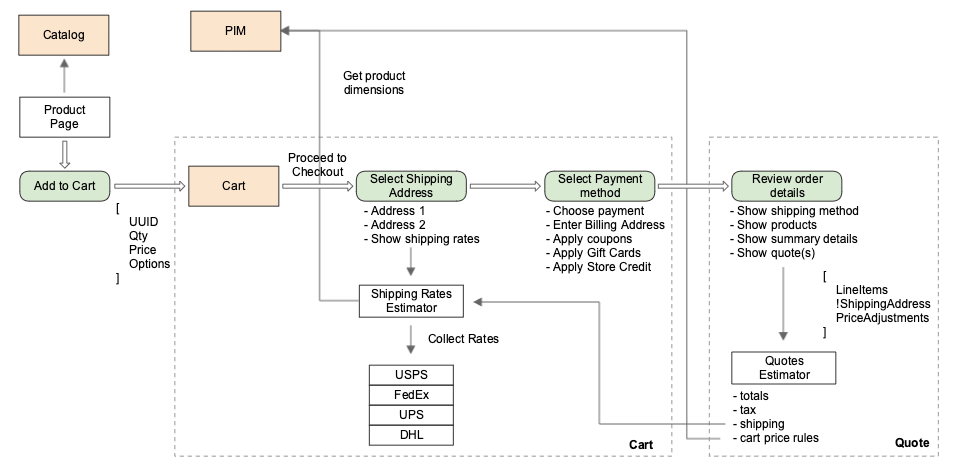
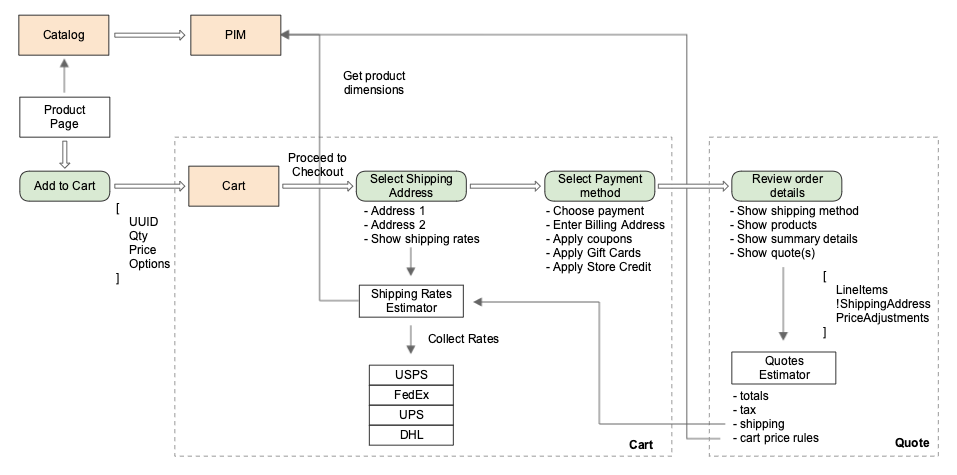
- Updated uni-directional data flow

Changed region(s): [[0.1212, 0.0, 0.7273, 0.1179]]

diff --git a/design-documents/checkout/alternative-checkout-flow.md b/design-documents/checkout/alternative-checkout-flow.md
@@ -14,15 +14,15 @@ Each quote is used to create a separate order, the quote will have time to live 
 
 This proposal describes multiple approaches for the checkout flow.
 
-## Bidirectional checkout flow
+## Current checkout flow with modifications
 
 This flow is based on the current checkout flow and assumes improving current API without data flow modification. The Cart and Quote modules will still use Catalog and PIM to retrieve product details.
 
-![Bidirectional checkout flow](img/alternative-checkout-flow.png)
+![Current checkout flow](img/alternative-checkout-flow.png)
 
 The `Add to Cart` operation receives an only basic list of product attributes like UUID (SKU for the current implementation), quantity, price, and options. All additional details like product dimensions for shipping rates calculations, each module (service) will request from PIM (Catalog for the current implementation).
 
-The different quote's calculators, like Cart Price Rule calculator, can make requests to PIM/Catalog to retrieve additional product details. In general, the proposed schema does not change the checkout flow significantly but has ideas for API improvements.
+The different quote's calculators, like Cart Price Rule calculator, can make requests to PIM/Catalog to retrieve additional product details. In general, the proposed schema does not change the checkout flow significantly but has API improvements.
 
 ## Uni-directional checkout flow
 
@@ -37,8 +37,7 @@ The Cart will depend on Catalog. Quote will have a knowledge about PIM, Shipping
 ## Data Flow
 
   1. When Quote is created?
-     * For physical products on Review & Payments step
-     * For virtual products billing address has to be entered first
+     * When customer click `Proceed to Checkout`
   2. Cart properties:
      * Line Items:
        * SKU
@@ -123,7 +122,7 @@ There are still open questions related to the proposed solutions:
  - How the reservation mechanism should be implemented (a customer wants to apply the coupon code/store credit/rewards balance for multiple quotes)?
  - Should quote TTL be fixed or dynamically calculated in runtime?
  - Do we want to have only one `Add to Cart` entry-point for multiple product types?
- - Should shipping address be a part of Cart?
+ - Should shipping address be a part of Cart? (No)
 
 ## Summary
 
